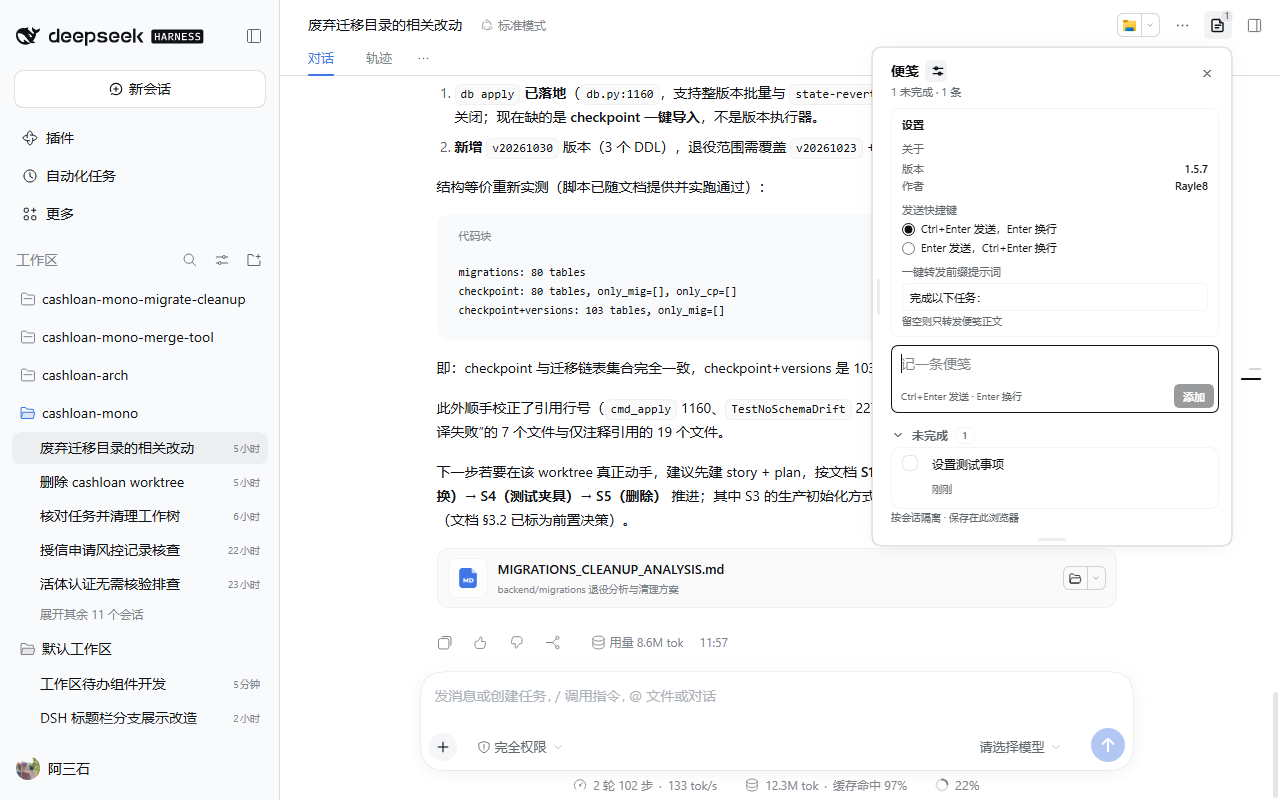
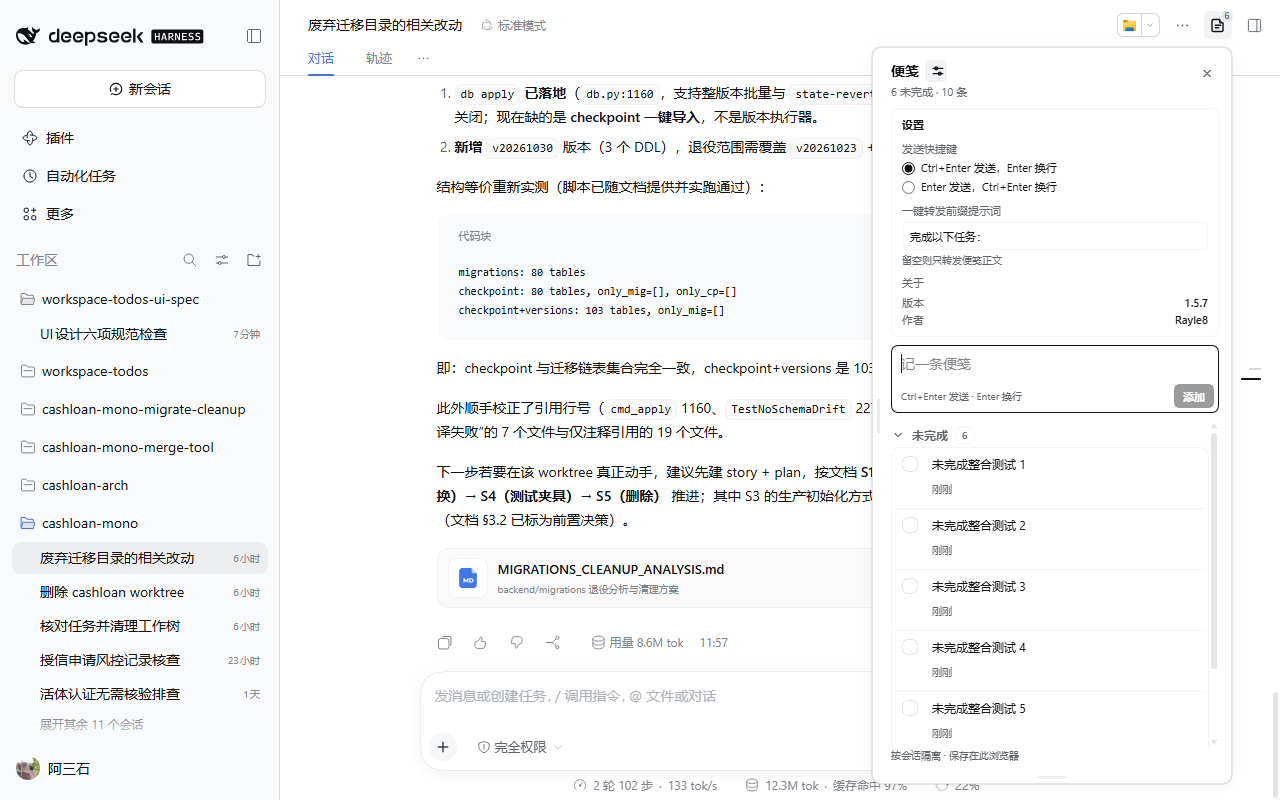
release: 1.5.8 with settings, scroll, forward, and state fixes

diff --git a/client.js b/client.js
@@ -19,7 +19,7 @@ window.__ModuleLoader__.load({
     /** Fixed lead-in used when forwarding a note to the conversation composer. */
     const FORWARD_PREFIX = '完成以下任务：'
     /** Shown in the in-panel settings; keep in sync with package.json. */
-    const PLUGIN_VERSION = '1.5.7'
+    const PLUGIN_VERSION = '1.5.8'
     const PLUGIN_AUTHOR = 'Rayle8'
     /** Enter-to-send preference; persisted across panel openings. */
     const SEND_SHORTCUT_KEY = 'dsh.memo.send-shortcut.v1'

diff --git a/README.en.md b/README.en.md
@@ -21,20 +21,21 @@ Clicking it opens a fixed panel on the right. The sidebar title badge and compos
 - Data is keyed by **session ID**; different sessions in one workspace stay independent.
 - A 28px square top-right icon button shows the open count as a low-contrast gray corner badge; its tooltip reads “Session notes N”.
 - Clicking it opens a fixed right-side panel; switching sessions closes the old panel and updates the entry.
-- The settings button beside the notes title expands a settings area with the plugin version, author, send-shortcut choice, and a configurable one-click forward prefix; settings persist automatically.
+- The settings button beside the notes title expands a settings area for the send shortcut and one-click forward prefix, with version/author at the bottom; settings persist automatically.
 - The panel's top-right corner aligns with the header entry and shifts left of the DSH right sidebar when that sidebar is open.
 - Clicking the entry opens the right-side panel for add, complete, copy, edit (double-click or pencil), delete, clear completed, and expand completed.
 - Drag the handle on the panel's left edge to resize its width; double-click the handle to reset it, and the width persists in the browser.
 - Drag the bottom-center handle to resize its height; double-click the handle to return to content sizing, and the height persists.
 - Each note has copy, forward, edit, and delete actions; copy sits to the left of edit and briefly shows **Copied** after a successful copy.
-- Forward writes the configured prefix (default **完成以下任务：**), a newline, then the note text; existing composer content is separated by a newline, the caret stays at the end, and nothing is sent automatically.
+- Forward appends each note as a `-` list item; the configured prefix (default **完成以下任务：**) is written only when the composer is empty, never when it already has content. The caret stays at the end and nothing is sent automatically.
 - The completion circle shares the first line with the note text; copy, edit, and delete sit at the bottom-right beside the time, saving one row.
-- The completion circle is visually 16px inside a 24px hit area, matching the row actions.
+- The completion circle is visually 16px inside a 24px hit area and centers on the first line of note text.
 - Both the new-note input and the editor grow into multiple rows as you type; the add box uses Ctrl+Enter or Enter to send based on the setting, with the other combination inserting a newline, while the editor uses Enter to save and Shift+Enter for a line.
 - The add row no longer shows a plus icon, and **Add** always sits at the right of its own second row, so wrapping never flickers or jumps.
 - The send-shortcut hint sits in the empty space left of the Add button and updates with the setting, keeping the input placeholder short.
 - Unsaved add/edit drafts are saved per session and restored after closing and reopening the panel, with the add caret at the end of the draft; they clear after add, save, cancel, or delete.
-- Expanding **Completed** does not compress the **Open** list; content extends downward, and the whole panel scrolls when it exceeds the viewport.
+- Expanding **Completed** does not compress the **Open** list; only the open/completed list region scrolls, while the header, settings, composer, and footer stay fixed.
+- The open/completed expand state is remembered and restored when the panel is reopened.
 - Note-card copy/edit/delete actions appear on hover or keyboard focus while keeping their layout space; touch devices keep them visible.
 - Both **Open** and **Completed** headings collapse on click with matching count styles; either can stay expanded independently; only the chevron, label, and count are clickable, not the blank right side.
 - The sidebar reminder stays visible while the session is running.

diff --git a/README.md b/README.md
@@ -21,20 +21,21 @@
 - 数据按**会话 ID** 隔离；同一个工作区的不同会话也各自独立。
 - 顶部右侧保持 `28px` 正方形图标按钮，用低对比灰色角标显示未完成数；悬浮提示为「会话便笺 N」。
 - 点击按钮在窗口右侧打开固定面板；切换会话时自动收起旧面板并更新入口。
-- 便笺标题右侧的设置按钮展开设置区：显示版本、作者，可选择发送快捷键，并配置一键转发的前缀提示词；设置自动保存。
+- 便笺标题右侧的设置按钮展开设置区：可切换发送快捷键、配置一键转发前缀，版本与作者信息放在设置区下方；设置自动保存。
 - 浮窗右上角对齐顶部入口按钮；DSH 右侧栏打开时自动左移，避免被右侧栏遮挡。
 - 点击入口打开右侧面板：添加、打勾完成、复制、双击或铅笔编辑、删除、清除已完成、展开已完成。
 - 拖动面板左边缘把手可调整宽度，双击把手复位；宽度会保存在浏览器中。
 - 拖动面板底部中央把手可调整高度，双击把手恢复内容自适应；高度会保存。
 - 每条便笺右侧提供复制、转发、编辑、删除；复制在编辑左侧，复制成功后短暂显示「已复制」。
-- 转发会先写入设置中的前缀提示词（默认「完成以下任务：」），换行后再追加便笺内容；输入框已有内容时先换行分隔，光标停在末尾，不会自动发送。
+- 转发只把每条便笺作为无序列表项 `- 内容` 追加；仅当输入框为空时写入设置中的前缀提示词（默认「完成以下任务：」），已有内容时不再补前缀，光标停在末尾且不会自动发送。
 - 勾选框与正文第一行合并；复制/编辑/删除放在底部时间行右侧，减少一行空间占用。
-- 完成圆点视觉为 16px，点击区域 24px，与右侧操作按钮更协调。
+- 完成圆点视觉为 16px，点击区域 24px，与正文第一行文字中心对齐。
 - 新增录入框和编辑框都会随内容自动增高为多行；新增框的发送键可在设置中选择 Ctrl+Enter 或 Enter，另一种组合换行；编辑框按 Enter 保存、Shift+Enter 换行。
 - 新增框不再显示左侧加号；「添加」按钮固定在第二行右侧，输入换行时不会闪烁或跳动。
 - 发送快捷键提示放在添加按钮左侧的空白处；切换设置后提示同步更新，输入框占位提示保持简洁。
 - 新增和编辑中的草稿按会话自动保存；临时关闭面板后重新打开会恢复，光标停在草稿末尾，添加、保存、取消或删除后自动清除。
-- 展开「已完成」不会压缩上方「未完成」列表，内容自然向下延伸；超过视窗高度时由浮窗整体滚动。
+- 展开「已完成」不会压缩上方「未完成」列表；只有未完成与已完成区域内部滚动，标题、设置、录入框和底部保持固定。
+- 「未完成」「已完成」的展开/折叠状态会记住，重新打开面板时恢复上次状态。
 - 便笺卡片的复制/编辑/删除按钮默认隐藏，悬浮或键盘聚焦时显示；触屏设备保持常显。
 - 「未完成」和「已完成」标题都可点击折叠，两侧计数样式保持一致；两者可独立展开，互不影响；点击区域仅限箭头、文字和计数，右侧空白不触发。
 - 侧边栏提醒标签在生成期间保留，方便随时查看。

diff --git a/CHANGELOG.md b/CHANGELOG.md
@@ -1,5 +1,14 @@
 # Changelog
 
+## 1.5.8
+
+- Move the About block (version/author) to the bottom of the settings area.
+- Align the completion circle with the first line of note text.
+- Scope the vertical scrollbar to the open/completed list region instead of the whole popover.
+- Forward notes as `-` list items; write the configured prefix only when the composer is empty.
+- Replace the bare forward arrow with a chat-bubble forward icon.
+- Remember the last open/completed expand state across panel openings.
+
 ## 1.5.7
 
 - Add a settings entry beside the notes title with the plugin version, author, send-shortcut choice, and configurable one-click forward prefix.
